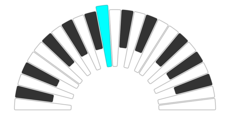
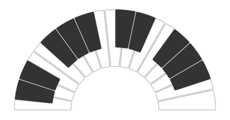
More like an actual piano.

diff --git a/index.html b/index.html
@@ -22,16 +22,10 @@
 <script src="d3.js"></script>
 <script>
 
-var data = ["C", "C♯", "D", "D♯", "E", "F", "F♯", "G", "A♭", "A", "B♭", "B"];
-
-data = data.concat(data, "C");
-
 var width = 960,
-    height = 500;
-
-var outerRadius = (height - 60),
-    innerRadius = outerRadius / 2.4,
-    cornerRadius = 10;
+    height = 500,
+    outerRadius = (height - 60),
+    innerRadius = outerRadius / 2.4;
 
 var over = "ontouchstart" in window ? "touchstart" : "mouseover",
     out = "ontouchstart" in window ? "touchend" : "mouseout";
@@ -46,7 +40,7 @@ var pie = d3.layout.pie()
 var arc = d3.svg.arc()
     .cornerRadius(4)
     .padRadius(outerRadius)
-    .innerRadius(function(d) { return /[♯♭]$/.test(d.data) ? innerRadius + 80 : innerRadius; });
+    .innerRadius(function(d) { return d.sharp ? innerRadius + 80 : innerRadius; });
 
 var svg = d3.select("body").append("svg")
     .attr("width", width)
@@ -55,10 +49,10 @@ var svg = d3.select("body").append("svg")
     .attr("transform", "translate(" + width / 2 + "," + (height - 40) + ")");
 
 var key = svg.selectAll("path")
-    .data(pie(data))
+    .data(sharpen(pie(repeat(["C", "D", "E", "F", "G", "A", "B"]))))
   .enter().append("path")
-    .each(function(d) { d.outerRadius = outerRadius - 20; })
-    .attr("class", function(d) { return "key key--" + (/[♯♭]$/.test(d.data) ? "black" : "white"); })
+    .each(function(d, i) { d.outerRadius = outerRadius - 20; })
+    .attr("class", function(d) { return "key key--" + (d.sharp ? "black" : "white"); })
     .attr("d", arc)
     .on(over, arcTween(outerRadius, 0))
     .on(out, arcTween(outerRadius - 20, 150));
@@ -73,6 +67,33 @@ function arcTween(outerRadius, delay) {
   };
 }
 
+function repeat(notes) {
+  return notes.concat(notes, notes[0]);
+}
+
+function sharpen(keys) {
+  var sharpOffset = (pie.endAngle() - pie.startAngle()) / (keys.length * 2);
+
+  for (var i = 0, n = keys.length - 1, k; i < n; ++i) {
+    if (/[CDFGA]/.test((k = keys[i]).data)) {
+      keys.splice(++i, 0, {
+        startAngle: k.startAngle + sharpOffset,
+        endAngle: k.endAngle + sharpOffset,
+        padAngle: k.padAngle,
+        sharp: true
+      });
+      ++n;
+    }
+    k.sharp = false;
+  }
+
+  for (var i = 0, n = keys.length; i < n; ++i) {
+    keys[i].frequency = 440 * Math.pow(2, (i - 9) / 12); // 0 is middle C
+  }
+
+  return keys.sort(function(a, b) { return a.sharp - b.sharp; });
+}
+
 (function() {
   var AudioContext = window.AudioContext || window.webkitAudioContext || window.mozAudioContext || window.oAudioContext;
   if (!AudioContext) return console.error("AudioContext not supported");
@@ -81,17 +102,14 @@ function arcTween(outerRadius, delay) {
 
   var context = new AudioContext;
 
-  function frequency(i) {
-    return 440 * Math.pow(2, (i - 9) / 12); // 0 is middle C
-  }
-
   key.on(over + ".beep", function(d, i) {
     var now = context.currentTime,
         oscillator = context.createOscillator(),
         gain = context.createGain();
-    oscillator.frequency.value = frequency(i);
+    oscillator.type = "square";
+    oscillator.frequency.value = d.frequency;
     gain.gain.linearRampToValueAtTime(0, now);
-    gain.gain.linearRampToValueAtTime(.8, now + .1);
+    gain.gain.linearRampToValueAtTime(.6, now + .1);
     gain.gain.linearRampToValueAtTime(0, now + 1);
     oscillator.connect(gain);
     gain.connect(context.destination);
